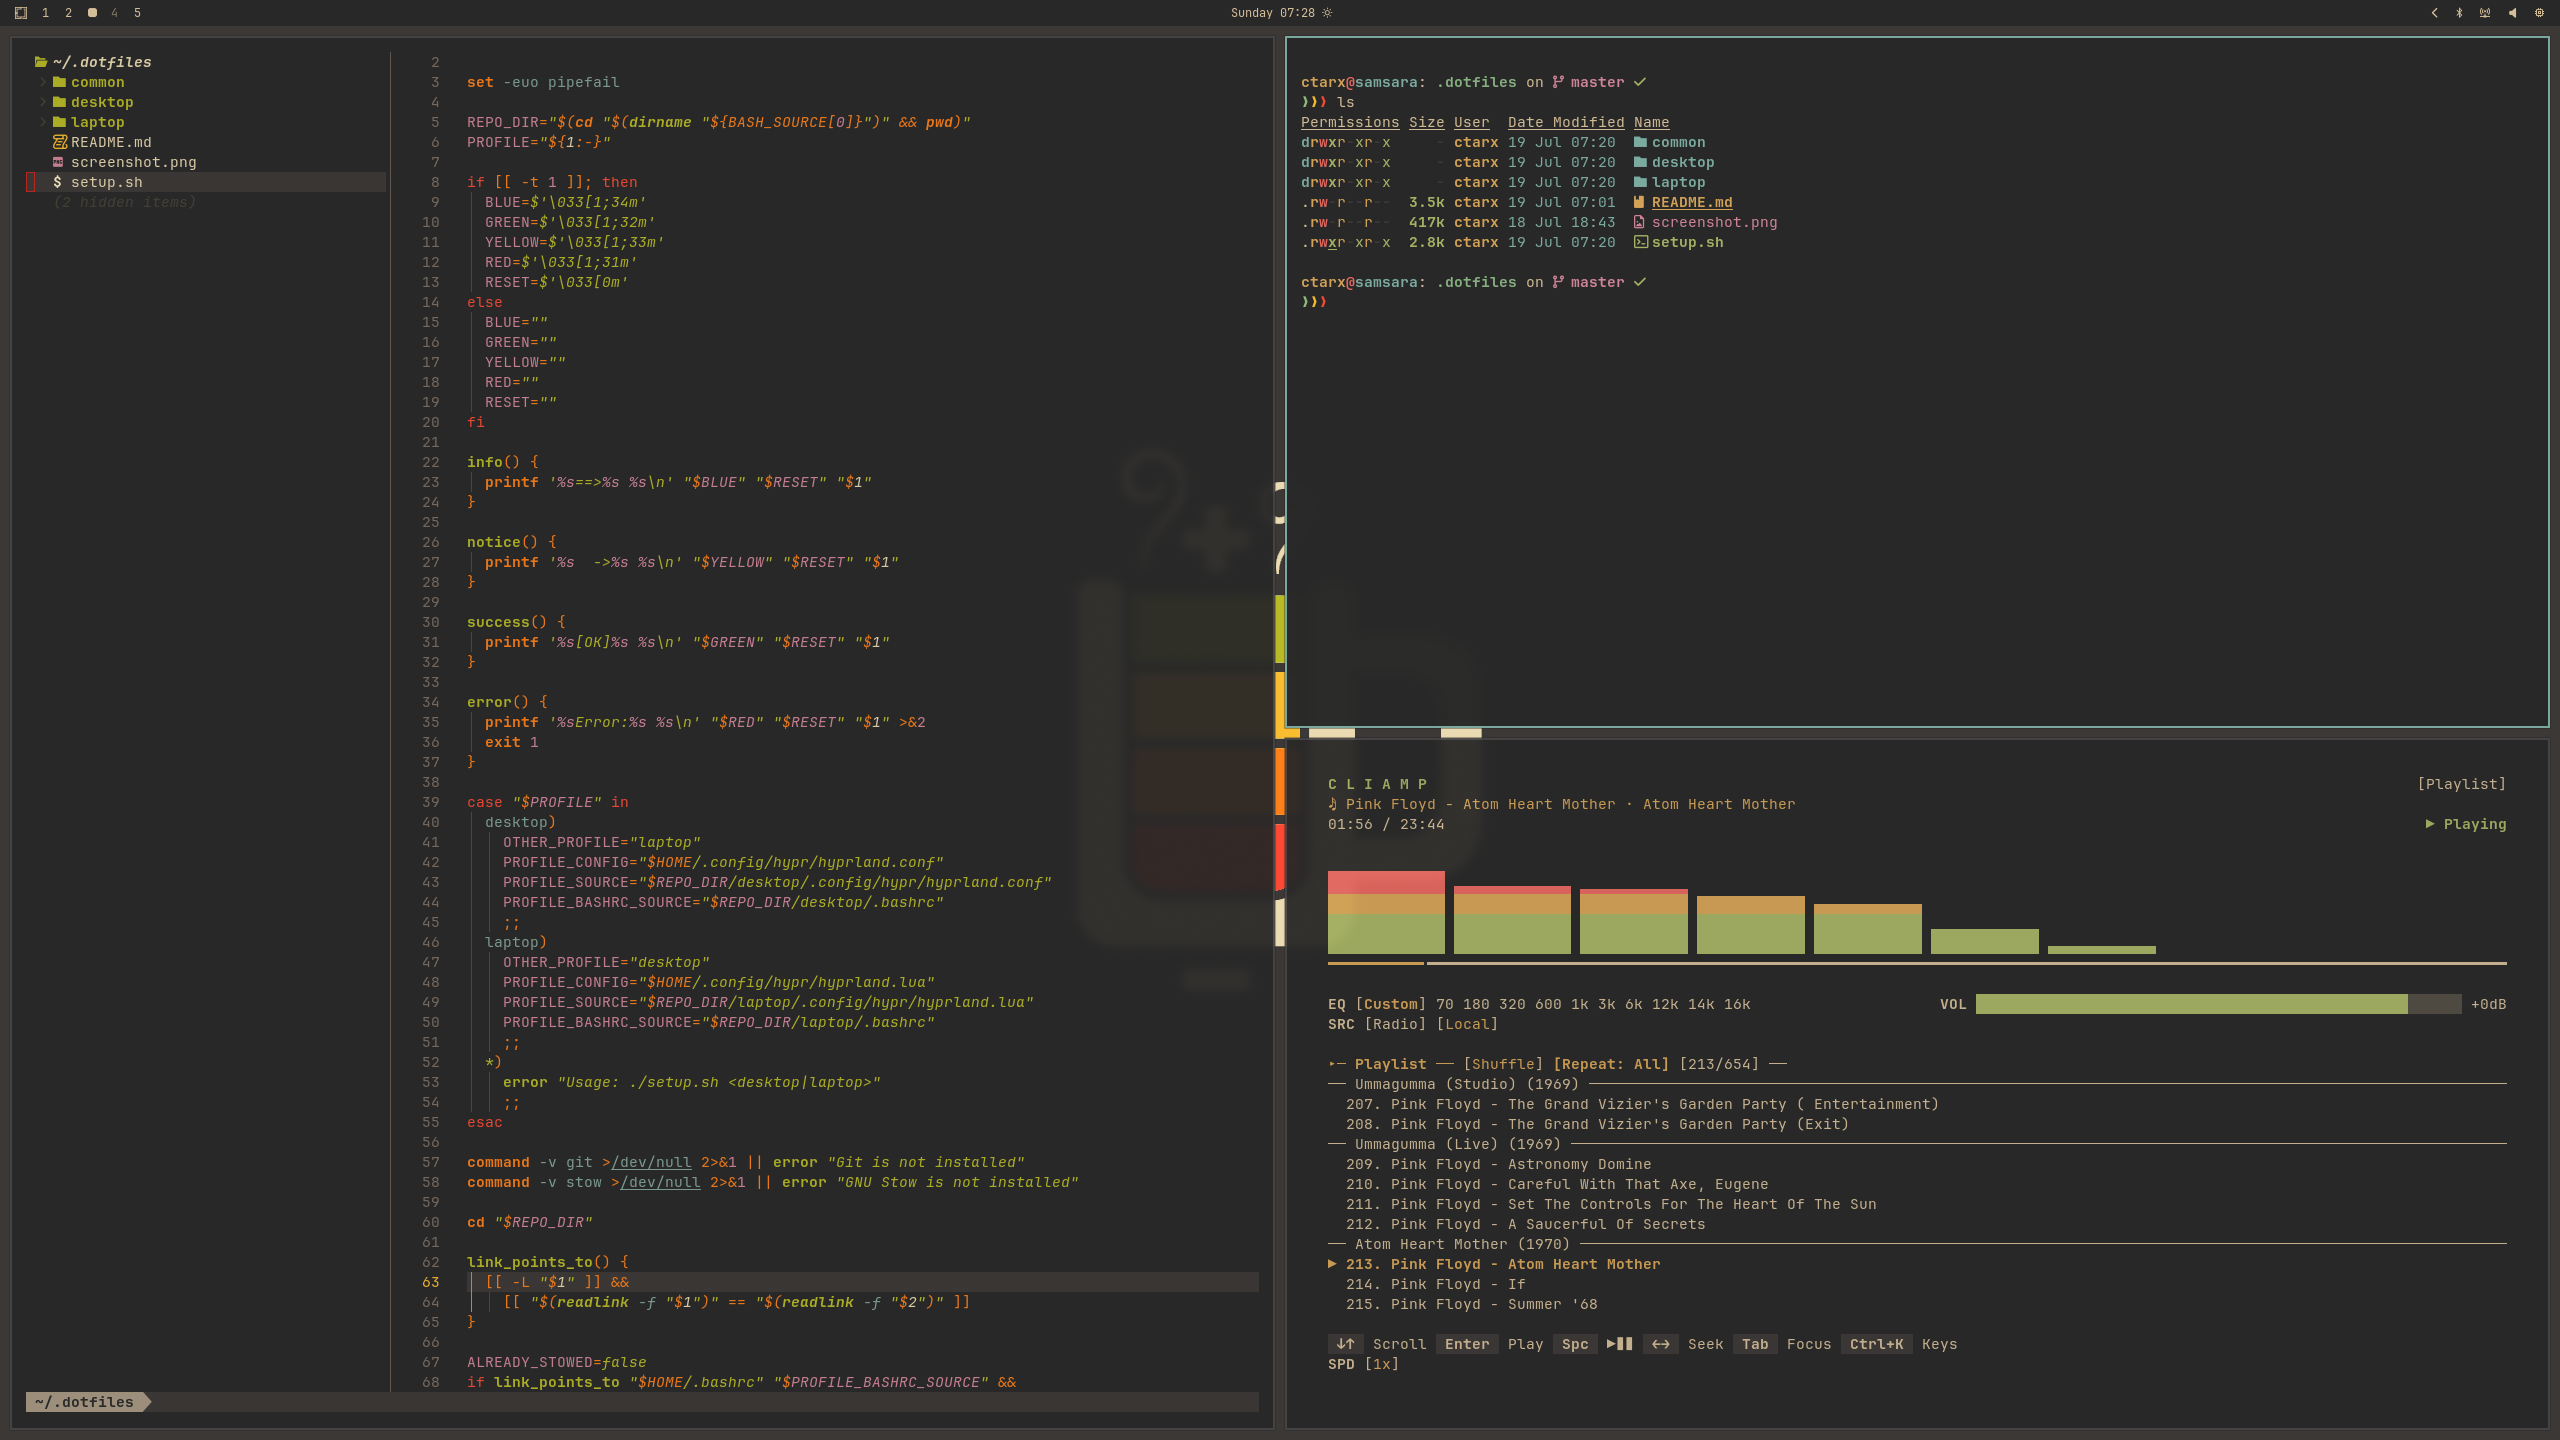
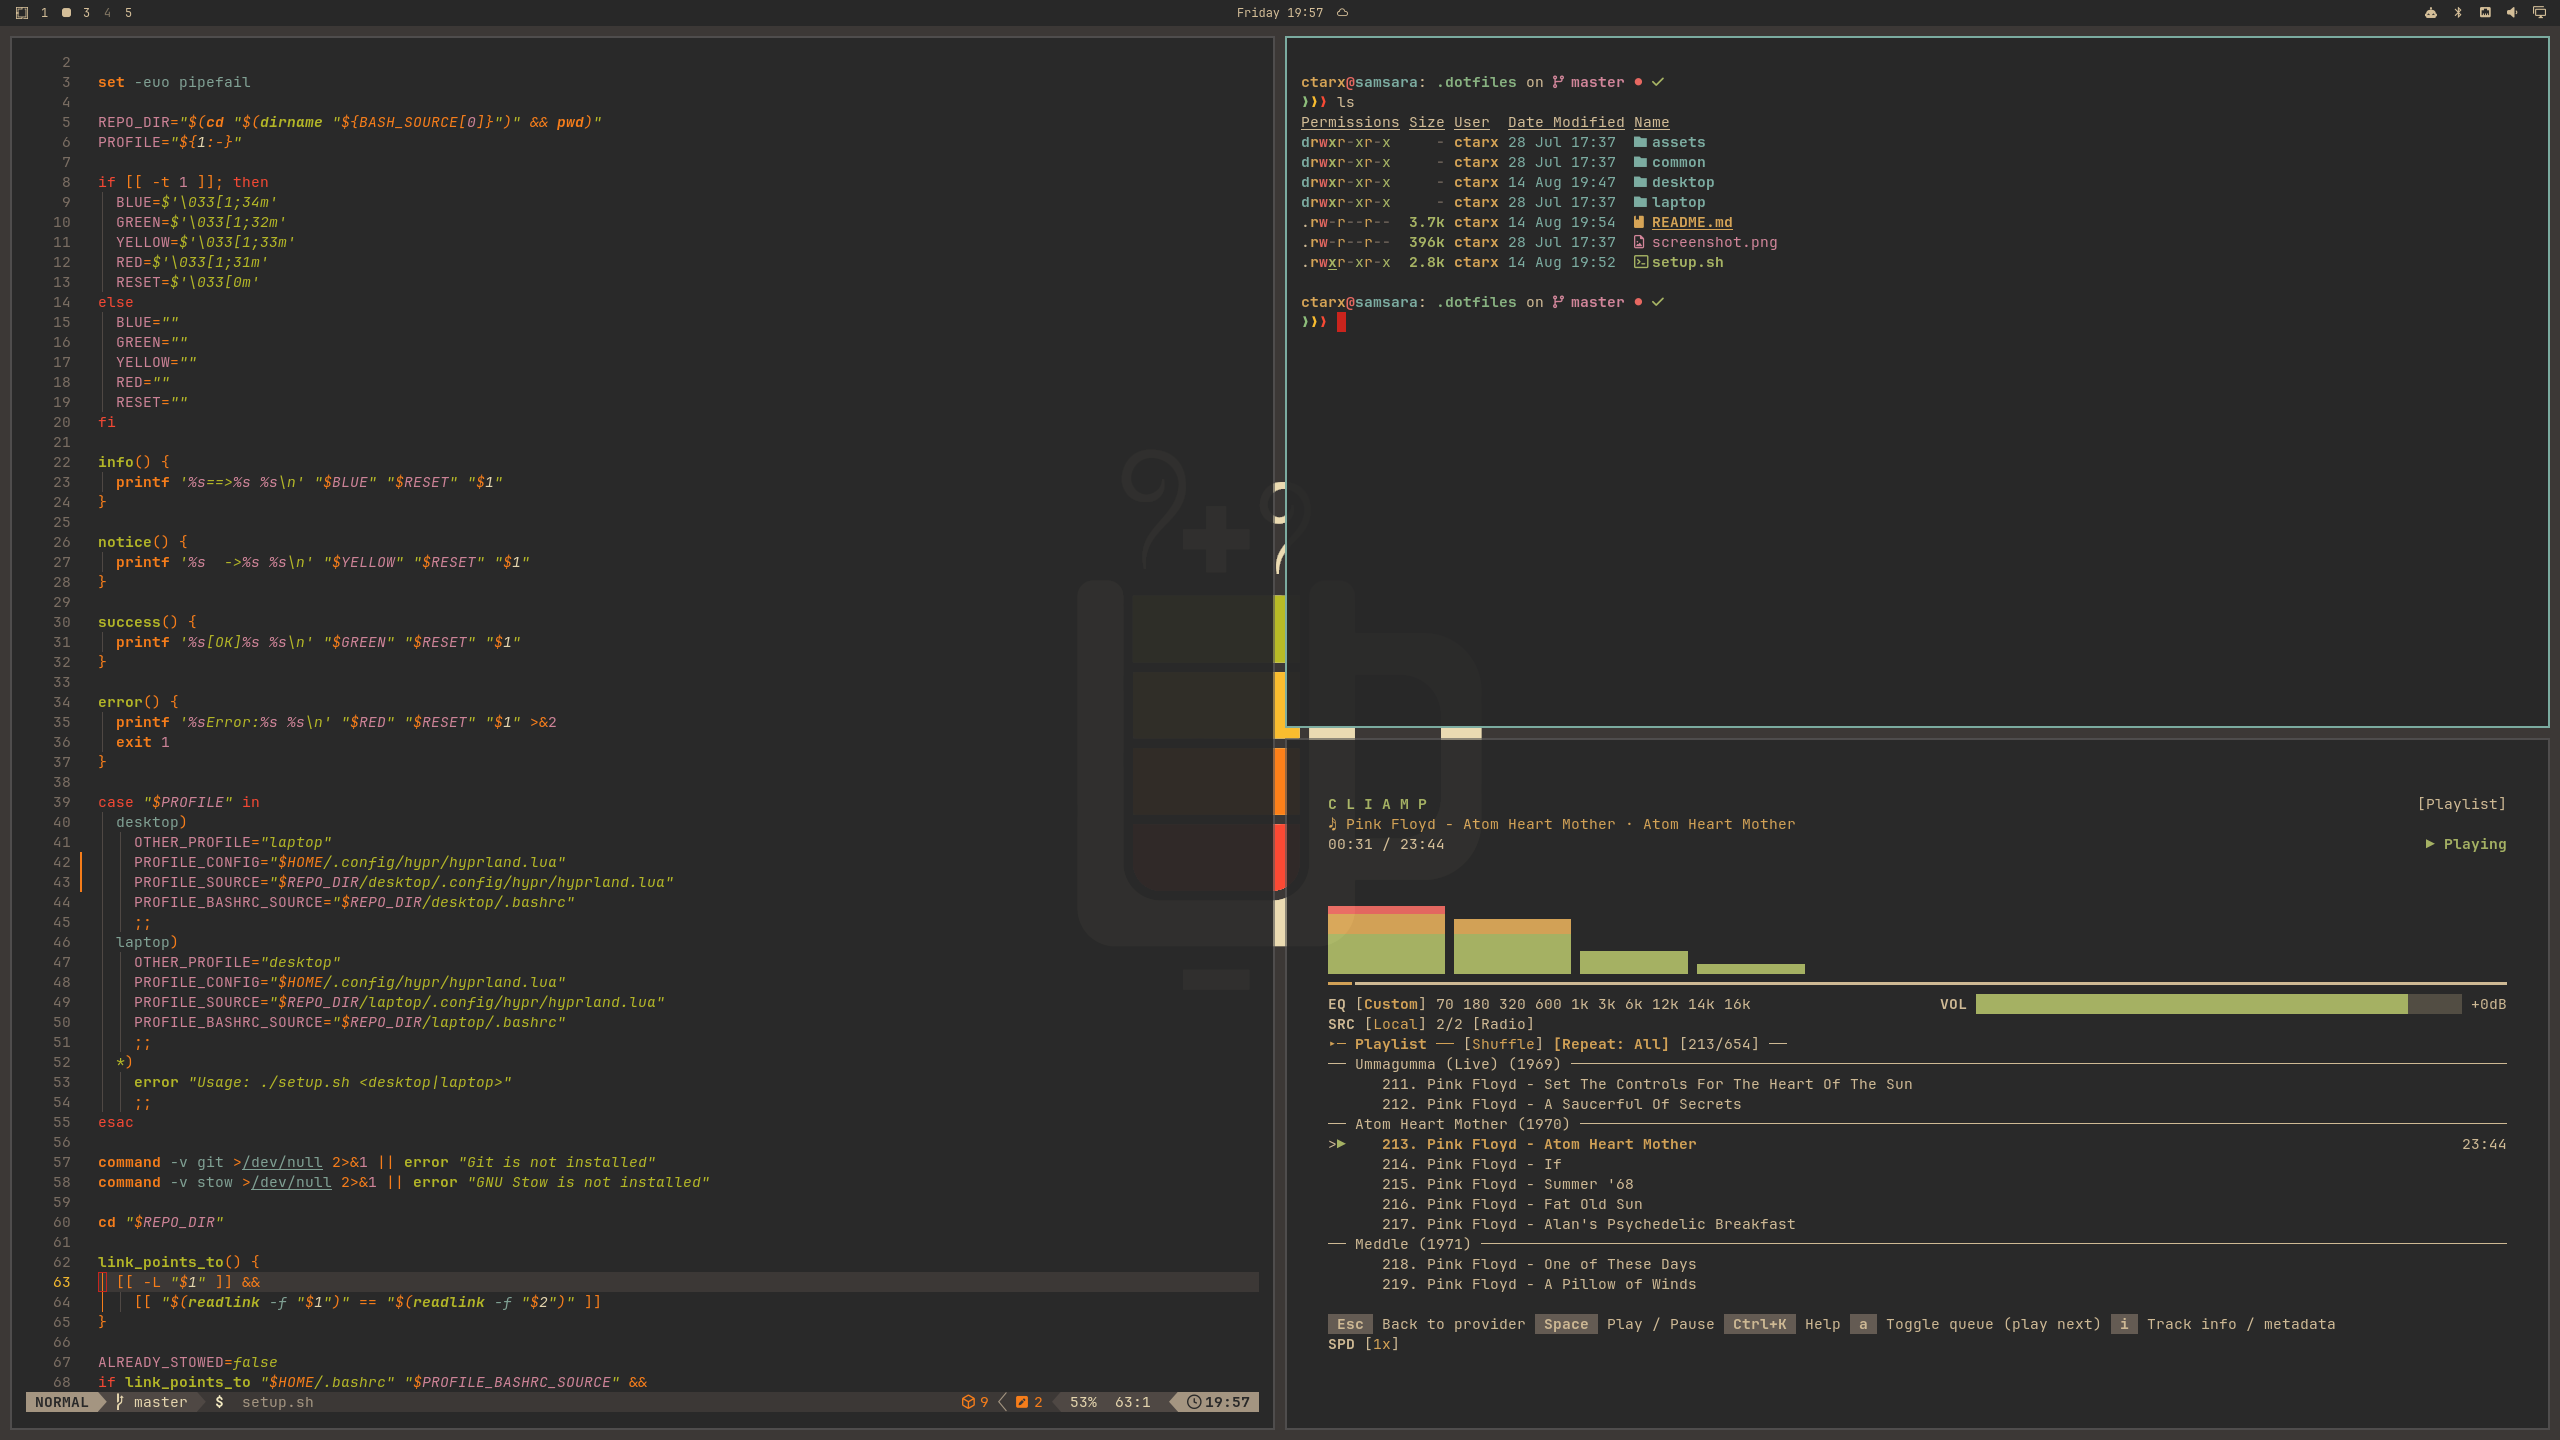
docs: update setup and screenshot

diff --git a/README.md b/README.md
@@ -3,8 +3,8 @@
 Dotfiles for two Omarchy machines:
 
 - `common` contains configuration shared by both machines.
-- `desktop` contains the desktop Hyprland configuration, Waybar, and backup scripts.
-- `laptop` contains the laptop Hyprland Lua configuration for Omarchy Quattro.
+- `desktop` contains the desktop Hyprland Lua configuration and backup scripts.
+- `laptop` contains the laptop Hyprland Lua configuration.
 
 ## Screenshot
 
